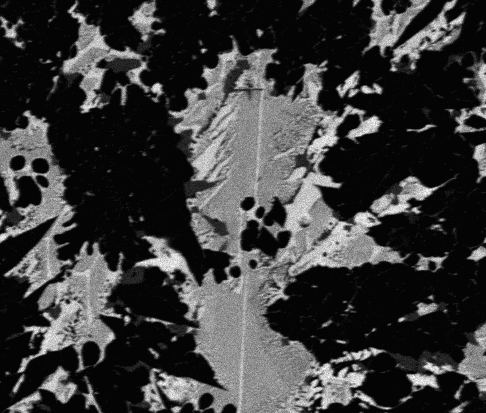
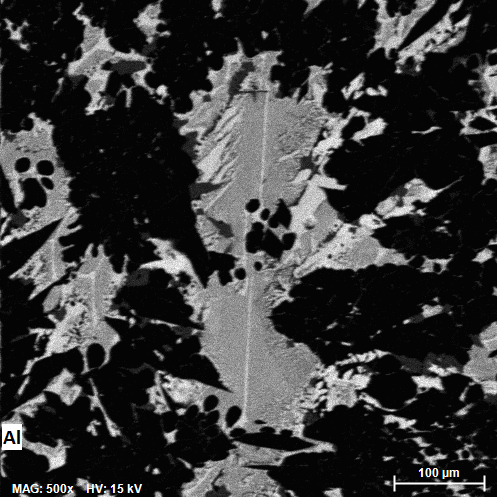
moyenne des concentrations

diff --git a/crop.py b/crop.py
@@ -13,7 +13,7 @@ def on_select(eclick,erelease):
 Element=np.array(['Al-K','C-Kα','Ca-Kα','Cr-Kα','Fe-Kα','Mn-Kα','Na-Kα','O-Kα','P-Kα','S-Kα','Si-Kα','Ti-Kα','V-Kα'])
 
 #ATTENTION AU CHEMIN D'ACCES - à modifier par ordinateur 
-txt=f"Laitier1-x500_BSE-carto.tif"
+txt=f"projet_mines-Paris-data-processing_2026\donnes_MEB-EDS\export_tif\Laitier1_Al-K.tif"
 img = Image.open(txt)
 img_array = np.array(img)
 
@@ -32,7 +32,7 @@ cropped_img = img_array[y1:y2, x1:x2]
 new_image = Image.fromarray(cropped_img)
 
 
-new_image.save(f"Laitier1-x500_BSE-carto_cropped.png")
+new_image.save(f"projet_mines-Paris-data-processing_2026\donnes_MEB-EDS\export_tif\Laitier1_Al-K_cropped.png")
 
 
     

diff --git a/niveau_de_gris.py b/niveau_de_gris.py
@@ -22,7 +22,7 @@ h,l = np.shape(img_gris_array)
 vmin = np.min(img_gris_array)
 vmax = np.max(img_gris_array)
 
-print("For Al The size is :", (h,l),  ". The minimum value is :", vmin, ". The maximum value is:", vmax)
+#print("For Al The size is :", (h,l),  ". The minimum value is :", vmin, ". The maximum value is:", vmax)
 
 Element=np.array(['C','Ca','Cr','Fe','Mn','Na','O','P','S','Si','Ti','V'])
 
@@ -37,7 +37,7 @@ for el in Element:
     vmin = np.min(img_gris_array)
     vmax = np.max(img_gris_array)
 
-    print("For", el, "The size is :", (h,l),  ". The minimum value is :", vmin, ". The maximum value is:", vmax)
+    #print("For", el, "The size is :", (h,l),  ". The minimum value is :", vmin, ". The maximum value is:", vmax)
 
 
 